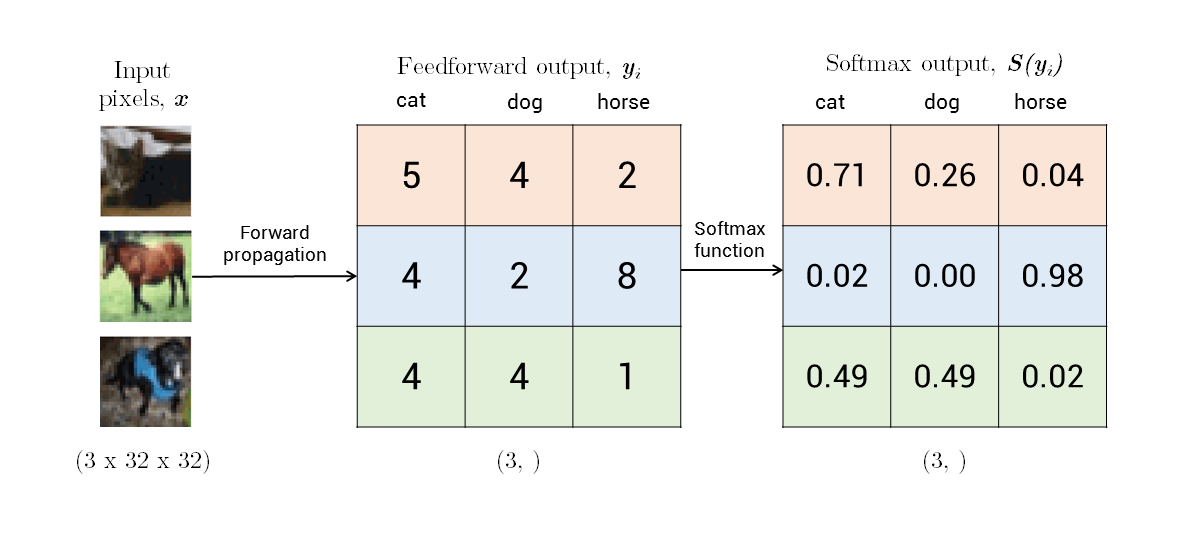
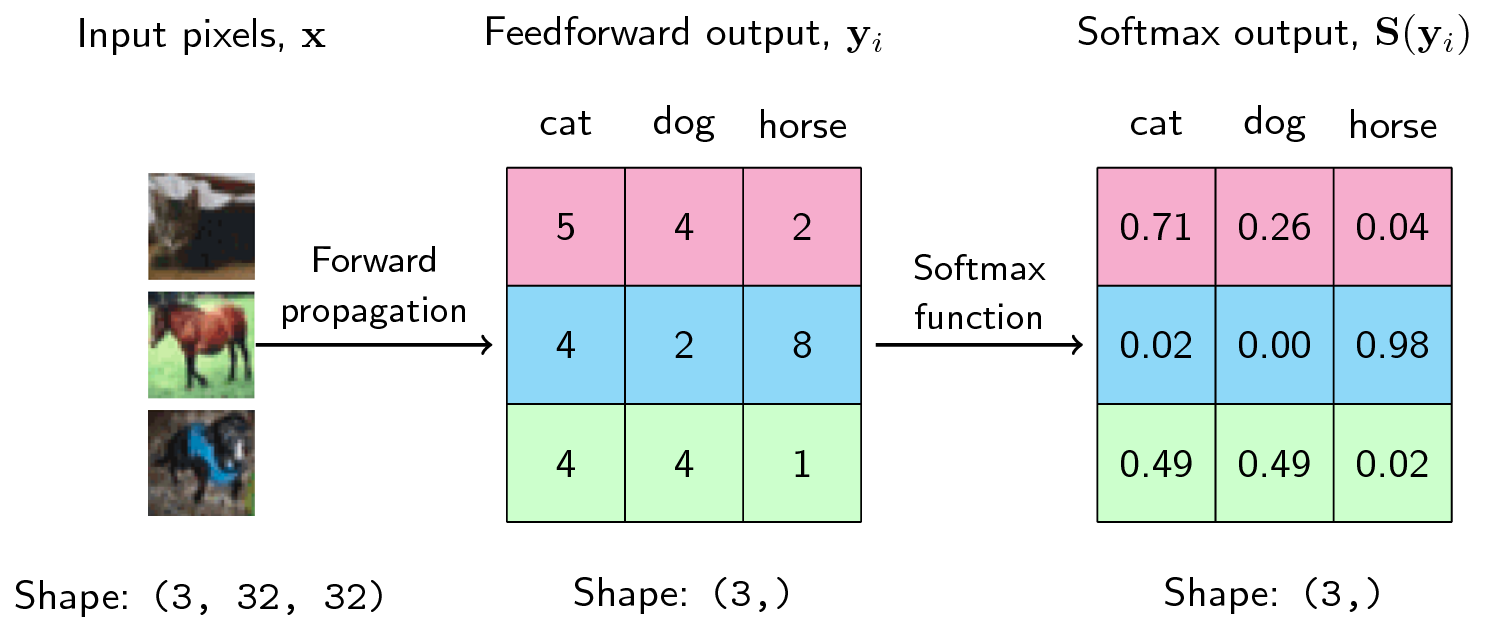
Update figures for Softmax tutorial

diff --git a/notebook/_posts/2017-08-13-softmax-and-the-negative-log-likelihood.md b/notebook/_posts/2017-08-13-softmax-and-the-negative-log-likelihood.md
@@ -17,6 +17,9 @@ please leave a comment below.
 - [Negative log-likelihood](#negative-log-likelihood)
 - [Derivative of the Softmax](#derivative-of-the-softmax)
 
+#### Changelog
+* 09-29-2018: Update figures using TikZ for consistency
+
 ## Softmax Activation Function
 
 The softmax activation function is often placed at the output layer of a
@@ -43,8 +46,8 @@ Thus, given a three-class example below, the scores $$y_i$$ are computed from
 the forward propagation of the network. We then take the softmax and obtain
 the probabilities as shown:
 
-![Softmax computation](/assets/png/cs231n-ann/softmax.png){:width="720px"}  
-__Figure 1:__ _Softmax Computation for three classes_
+![Softmax computation](/assets/png/cs231n-ann/softmax.png){:width="640px"}  
+__Figure:__ _Softmax Computation for three classes_
 {: style="text-align: center;"}
 
 The output of the softmax describes the probability (or if you may, the
@@ -58,11 +61,11 @@ is that it improves the interpretability of the neural network. By looking at
 the softmax output in terms of the network's confidence, we can then reason
 about the behavior of our model.
 
-## Negative Log-Likelihood
+## Negative Log-Likelihood (NLL)
 
 In practice, the softmax function is used in tandem with the negative
-log-likelihood. This loss function is very interesting if we interpret it in
-relation to the behavior of softmax. First, let's write down our loss
+log-likelihood (NLL). This loss function is very interesting if we interpret it
+in relation to the behavior of softmax. First, let's write down our loss
 function:
 
 $$
@@ -81,8 +84,9 @@ So if we are using the negative log-likelihood as our loss function, when
 does it become unhappy? And when does it become happy? Let's try to plot its
 range:
 
-![Negative log-likelihood](/assets/png/cs231n-ann/neg_log.png){:width="720px"}  
-__Figure 2:__ _The loss function reaches infinity when input is 0, and reaches 0 when input is 1._
+![Negative log-likelihood](/assets/png/cs231n-ann/neg_log.png){:width="480px"}  
+__Figure:__ _The loss function reaches infinity when input   
+is 0, and reaches 0 when input is 1._
 {: style="text-align: center;"}
 
 The negative log-likelihood becomes unhappy at smaller values, where it can
@@ -93,7 +97,8 @@ confidence at the correct class, the unhappiness is low, but when the network
 assigns low confidence at the correct class, the unhappiness is high.
 
 ![Negative log-likelihood](/assets/png/cs231n-ann/neg_log_demo.png){:width="720px"}  
-__Figure 3:__ _When computing the loss, we can then see that higher confidence at the correct class leads to lower loss and vice-versa._
+__Figure__ _When computing the loss, we can then see that higher   
+confidence at the correct class leads to lower loss and vice-versa._
 {: style="text-align: center;"}
 
 ## Derivative of the Softmax
